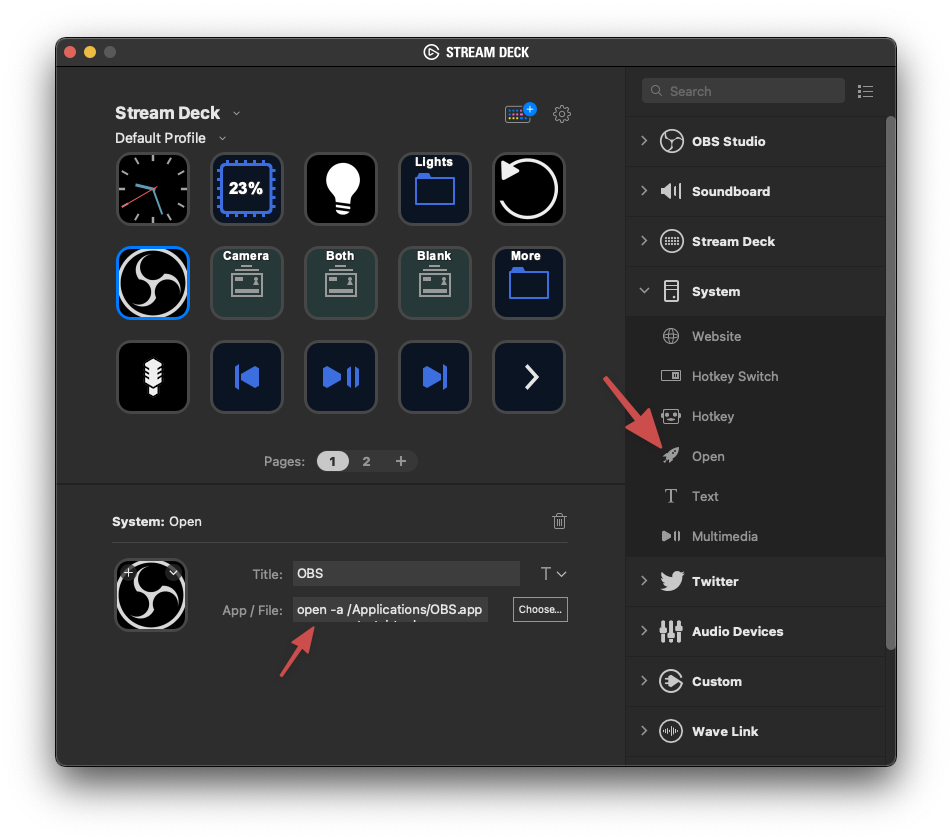
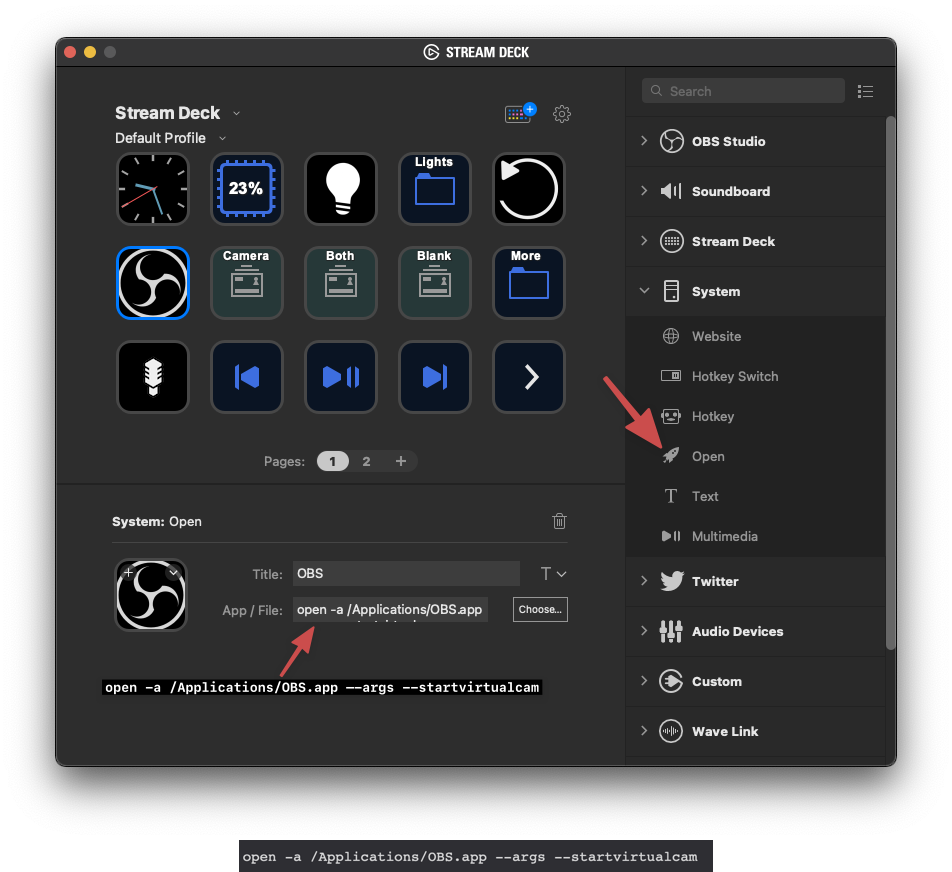
clarify screenshot

diff --git a/content/post/2021/starting-obs-with-streamdeck/index.md b/content/post/2021/starting-obs-with-streamdeck/index.md
@@ -27,7 +27,7 @@ open -a /Applications/OBS.app --args --startvirtualcam
 
 However, typing this on the terminal every time I want to start OBS obviously won’t save me any time. There are some things you could do, like save that in a text file and change the file extension to `.command` which will let you double click to run that command in a terminal window, but that's not very slick either, even though it may be fast. I wanted to see if I could do this via my Stream Deck.
 
-My first idea was to make a one-line script or Automator action and then point the Stream Deck to open that script, but I found it can be way simpler than that! It turns out the stream deck software has built-in suppot for running a terminal command in the background, it's just not terribly obvious. All you need to do is add a new Open action, then paste the terminal command from before in the App/File box.
+My first idea was to make a one-line script or Automator action and then point the Stream Deck to open that script, but I found it can be way simpler than that! It turns out the stream deck software has built-in suppot for running a terminal command in the background, it's just not terribly obvious. All you need to do is add a new Open action, then paste the command from before in the App/File box:
 
 ![Screenshot of Stream Deck software](streamdeck_screenshot.png)
 
